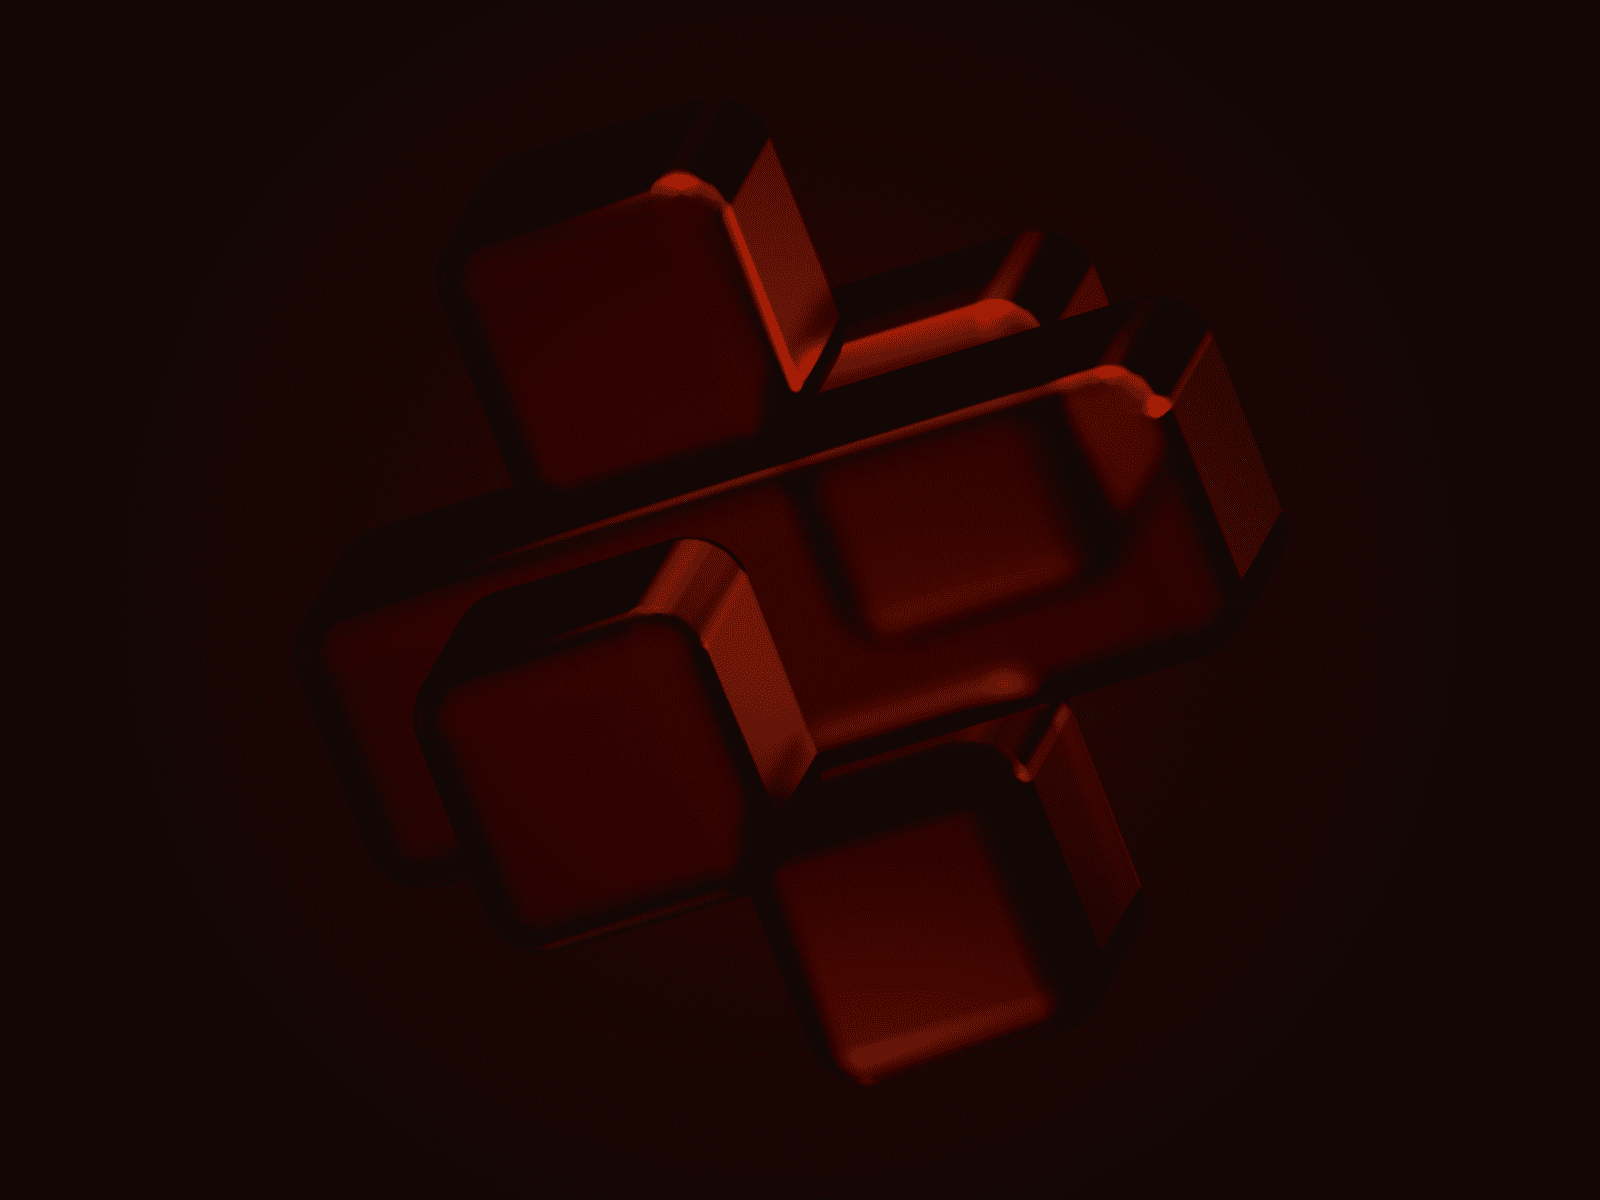
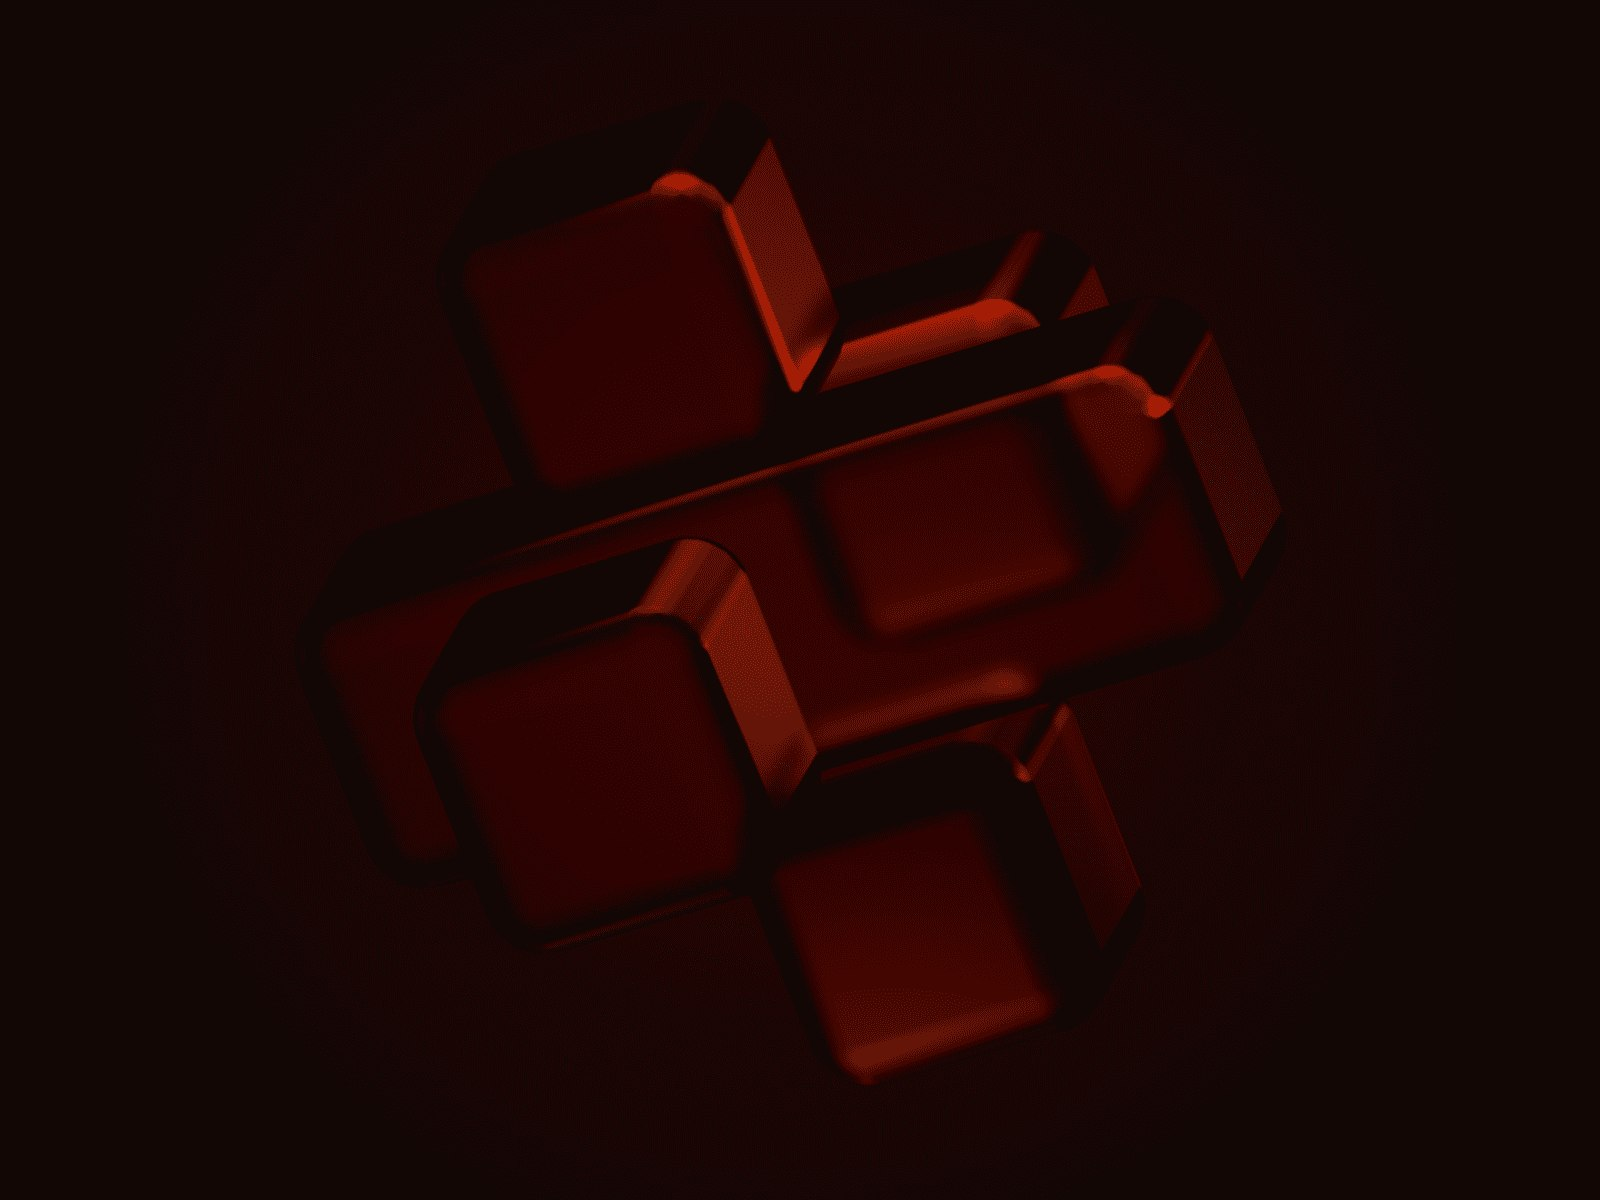
compressed and replaced some images and added overlay to sec 7

Changed region(s): [[0.75, 0.3083, 0.8125, 0.4625], [0.4375, 0.4933, 0.4688, 0.555]]

diff --git a/CSS/style.css b/CSS/style.css
@@ -480,7 +480,8 @@
 .stats
 {
     height: 350px;
-    background: url(../images/wallhaven-nr2p17.jpg) no-repeat;
+    /* background: url(../images/gradient-background-2560x1080-11027.jpg) no-repeat; */
+    background: url(../images/photo2.jpeg) no-repeat;
     background-attachment: fixed;
     background-position: top;
     background-size: cover;
@@ -591,9 +592,11 @@
     height: 350px;
     width: 100%;
     margin: 100px auto;
-    background: url(../images/photo2.jpeg) no-repeat;
+    /* background: url(../images/photo2.jpeg) no-repeat;*/
+    background: url(../images/gradient-background-2560x1080-11027.jpg) no-repeat; 
     background-attachment: fixed;
-    background-size: 100% 194%;
+    background-size: cover;
+    background-position: center;
 }
 .sec7-parent , .team-parent
 {

diff --git a/index.html b/index.html
@@ -300,6 +300,7 @@
                 </div><!--pricing-section ...............-->
             </div><!--container-->
             <div class="sec7">
+                <div class="overlay">
                 <div class="sec7-parent">
                 <div class="sec7-head1 sec7-item1">
                     <img src="images/original.jpg" alt="bard item">
@@ -322,6 +323,7 @@
                         Bard is powered by Google's advanced language models, such as LaMDA and PaLM 2</p>
                 </div><!--sec7-head-->
             </div><!--sec7-parent-->
+        </div><!--overlay-->
             </div><!--sec7-->
         <div class="teams container">
             <h3 class="teams-title">Our Team</h3>
